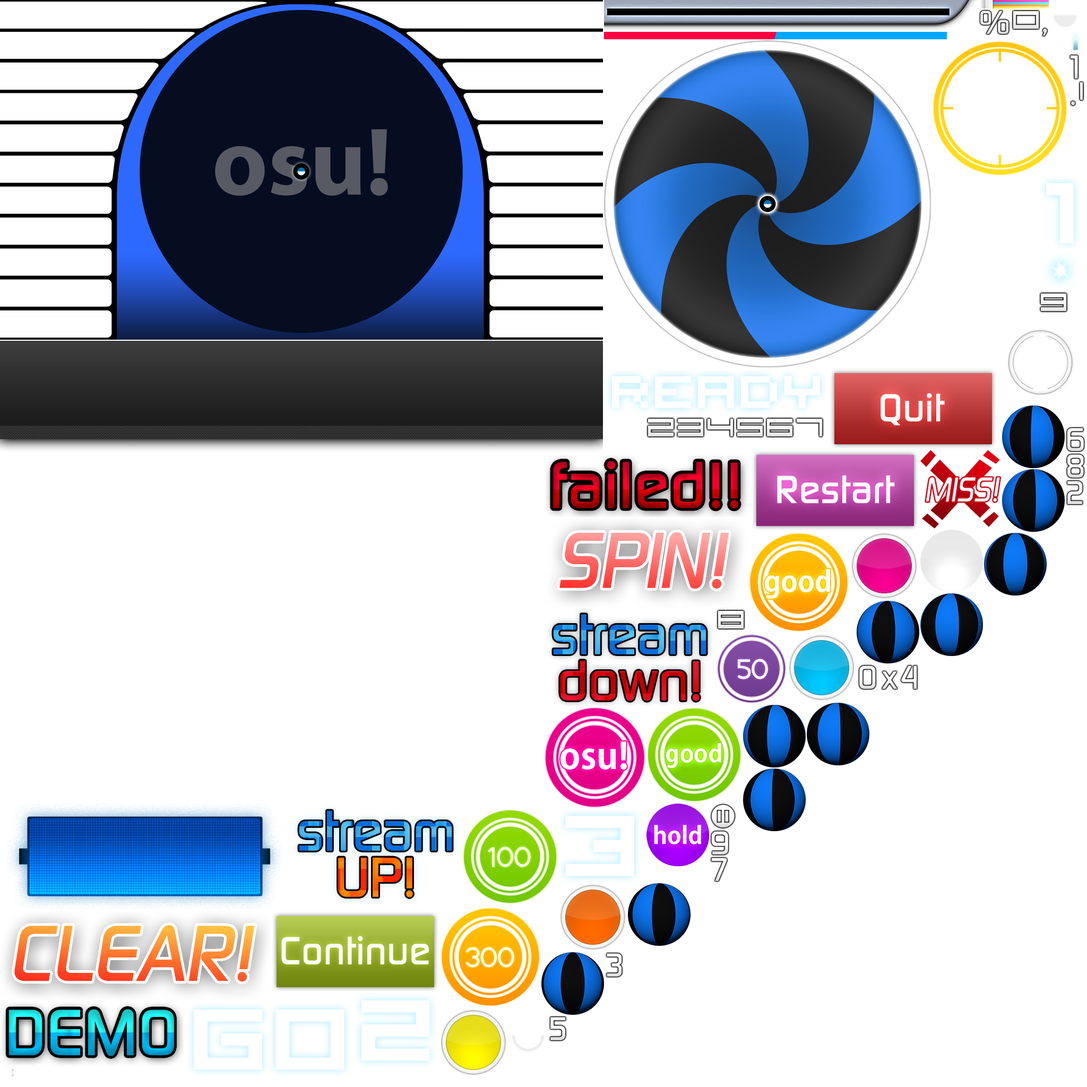
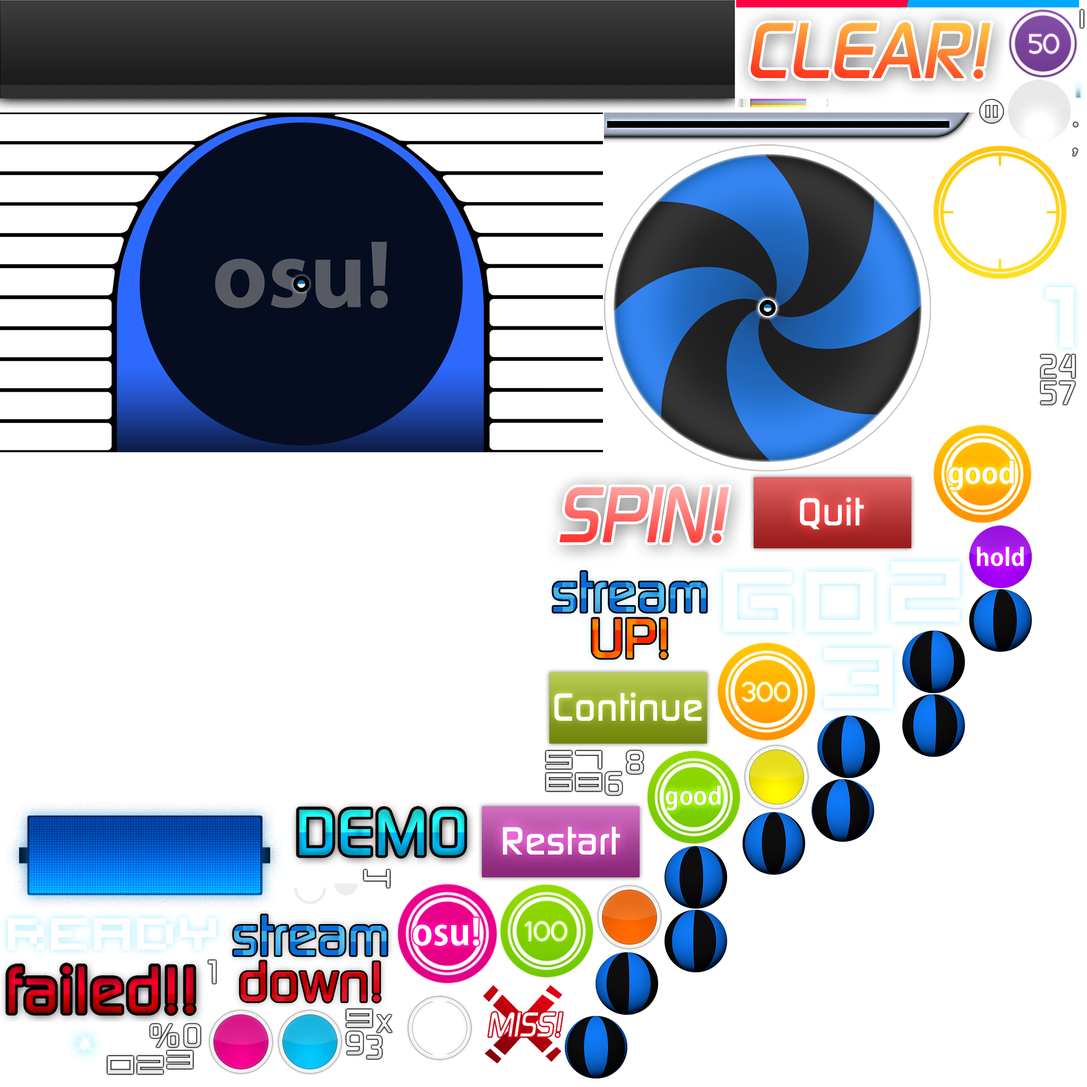
Update texture atlases

diff --git a/osu!stream/Graphics/TextureManager_Load.cs b/osu!stream/Graphics/TextureManager_Load.cs
@@ -4,153 +4,153 @@ namespace osum.Graphics.Skins
     {
         internal static void LoadSprites()
         {
-            textureLocations.Add(OsuTexture.spinner_background, new SpriteSheetTexture("hit", 0, 0, 1136, 640));
-            textureLocations.Add(OsuTexture.play_menu_background, new SpriteSheetTexture("hit", 0, 642, 1136, 212));
-            textureLocations.Add(OsuTexture.cleared, new SpriteSheetTexture("hit", 0, 856, 1024, 654));
-            textureLocations.Add(OsuTexture.scorebar_background, new SpriteSheetTexture("hit", 1138, 0, 704, 58));
-            textureLocations.Add(OsuTexture.scorebar_colour, new SpriteSheetTexture("hit", 1138, 60, 646, 14));
-            textureLocations.Add(OsuTexture.spinner_circle, new SpriteSheetTexture("hit", 1138, 76, 616, 616));
-            textureLocations.Add(OsuTexture.countdown_background, new SpriteSheetTexture("hit", 0, 1512, 545, 203));
-            textureLocations.Add(OsuTexture.spinner_clear, new SpriteSheetTexture("hit", 0, 1717, 510, 168));
-            textureLocations.Add(OsuTexture.countdown_ready, new SpriteSheetTexture("hit", 1138, 694, 422, 90));
-            textureLocations.Add(OsuTexture.failed, new SpriteSheetTexture("hit", 1026, 856, 388, 118));
-            textureLocations.Add(OsuTexture.spinner_spin, new SpriteSheetTexture("hit", 1026, 976, 382, 170));
-            textureLocations.Add(OsuTexture.demo, new SpriteSheetTexture("hit", 0, 1887, 350, 124));
-            textureLocations.Add(OsuTexture.stream_changing_up, new SpriteSheetTexture("hit", 547, 1512, 322, 194));
-            textureLocations.Add(OsuTexture.stream_changing_down, new SpriteSheetTexture("hit", 1026, 1148, 322, 182));
-            textureLocations.Add(OsuTexture.play_menu_continue, new SpriteSheetTexture("hit", 512, 1717, 316, 152));
-            textureLocations.Add(OsuTexture.play_menu_quit, new SpriteSheetTexture("hit", 1562, 694, 316, 152));
-            textureLocations.Add(OsuTexture.play_menu_restart, new SpriteSheetTexture("hit", 1416, 848, 316, 152));
-            textureLocations.Add(OsuTexture.countdown_go, new SpriteSheetTexture("hit", 352, 1887, 314, 144));
-            textureLocations.Add(OsuTexture.sliderfollowcircle, new SpriteSheetTexture("hit", 1756, 76, 256, 256));
-            textureLocations.Add(OsuTexture.stream_changing_arrow, new SpriteSheetTexture("hit", 1756, 334, 200, 266));
-            textureLocations.Add(OsuTexture.hit300g, new SpriteSheetTexture("hit", 1026, 1332, 190, 190));
-            textureLocations.Add(OsuTexture.hit300k, new SpriteSheetTexture("hit", 1410, 1002, 190, 190));
-            textureLocations.Add(OsuTexture.hit300, new SpriteSheetTexture("hit", 830, 1708, 188, 190));
-            textureLocations.Add(OsuTexture.hit100, new SpriteSheetTexture("hit", 871, 1524, 180, 180));
-            textureLocations.Add(OsuTexture.hit100k, new SpriteSheetTexture("hit", 1218, 1332, 180, 180));
-            textureLocations.Add(OsuTexture.holdoverlay, new SpriteSheetTexture("hit", 1880, 602, 160, 160));
-            textureLocations.Add(OsuTexture.countdown_2, new SpriteSheetTexture("hit", 668, 1871, 158, 142));
-            textureLocations.Add(OsuTexture.countdown_3, new SpriteSheetTexture("hit", 1053, 1524, 158, 138));
-            textureLocations.Add(OsuTexture.hit0, new SpriteSheetTexture("hit", 1734, 848, 152, 148));
-            textureLocations.Add(OsuTexture.hit50, new SpriteSheetTexture("hit", 1350, 1194, 132, 132));
-            textureLocations.Add(OsuTexture.tracks, new SpriteSheetTexture("hit", 1844, 0, 132, 16));
-            textureLocations.Add(OsuTexture.hitcircle0, new SpriteSheetTexture("hit", 1602, 1002, 128, 128));
-            textureLocations.Add(OsuTexture.hitcircle1, new SpriteSheetTexture("hit", 1484, 1194, 128, 128));
-            textureLocations.Add(OsuTexture.hitcircle2, new SpriteSheetTexture("hit", 1053, 1664, 128, 128));
-            textureLocations.Add(OsuTexture.hitcircle3, new SpriteSheetTexture("hit", 828, 1900, 128, 128));
-            textureLocations.Add(OsuTexture.holdactive, new SpriteSheetTexture("hit", 1734, 998, 118, 118));
-            textureLocations.Add(OsuTexture.holdinactive, new SpriteSheetTexture("hit", 1218, 1514, 118, 118));
-            textureLocations.Add(OsuTexture.sliderb_0, new SpriteSheetTexture("hit", 1400, 1328, 118, 118));
-            textureLocations.Add(OsuTexture.sliderb_1, new SpriteSheetTexture("hit", 1888, 764, 118, 118));
-            textureLocations.Add(OsuTexture.sliderb_2, new SpriteSheetTexture("hit", 1888, 884, 118, 118));
-            textureLocations.Add(OsuTexture.sliderb_3, new SpriteSheetTexture("hit", 1614, 1132, 118, 118));
-            textureLocations.Add(OsuTexture.sliderb_4, new SpriteSheetTexture("hit", 1020, 1794, 118, 118));
-            textureLocations.Add(OsuTexture.sliderb_5, new SpriteSheetTexture("hit", 1183, 1664, 118, 118));
-            textureLocations.Add(OsuTexture.sliderb_6, new SpriteSheetTexture("hit", 1400, 1448, 118, 118));
-            textureLocations.Add(OsuTexture.sliderb_7, new SpriteSheetTexture("hit", 1520, 1324, 118, 118));
-            textureLocations.Add(OsuTexture.sliderb_8, new SpriteSheetTexture("hit", 1734, 1118, 118, 118));
-            textureLocations.Add(OsuTexture.sliderb_9, new SpriteSheetTexture("hit", 1854, 1004, 118, 118));
-            textureLocations.Add(OsuTexture.sliderballoverlay, new SpriteSheetTexture("hit", 1756, 602, 118, 74));
-            textureLocations.Add(OsuTexture.countdown_1, new SpriteSheetTexture("hit", 1958, 334, 86, 134));
-            textureLocations.Add(OsuTexture.scorebar_marker_hit, new SpriteSheetTexture("hit", 1958, 470, 78, 78));
-            textureLocations.Add(OsuTexture.sliderarrow, new SpriteSheetTexture("hit", 1138, 786, 78, 58));
-            textureLocations.Add(OsuTexture.finger_outer, new SpriteSheetTexture("hit", 958, 1914, 74, 74));
-            textureLocations.Add(OsuTexture.score_percent, new SpriteSheetTexture("hit", 1844, 18, 60, 48));
-            textureLocations.Add(OsuTexture.finger_inner, new SpriteSheetTexture("hit", 1978, 0, 58, 58));
-            textureLocations.Add(OsuTexture.default_0, new SpriteSheetTexture("hit", 1906, 18, 54, 40));
-            textureLocations.Add(OsuTexture.default_2, new SpriteSheetTexture("hit", 1218, 786, 54, 40));
-            textureLocations.Add(OsuTexture.default_3, new SpriteSheetTexture("hit", 1274, 786, 54, 40));
-            textureLocations.Add(OsuTexture.default_4, new SpriteSheetTexture("hit", 1330, 786, 54, 40));
-            textureLocations.Add(OsuTexture.default_5, new SpriteSheetTexture("hit", 1386, 786, 54, 40));
-            textureLocations.Add(OsuTexture.default_6, new SpriteSheetTexture("hit", 1442, 786, 54, 40));
-            textureLocations.Add(OsuTexture.default_7, new SpriteSheetTexture("hit", 1498, 786, 54, 40));
-            textureLocations.Add(OsuTexture.default_8, new SpriteSheetTexture("hit", 1350, 1148, 54, 40));
-            textureLocations.Add(OsuTexture.default_9, new SpriteSheetTexture("hit", 1958, 550, 54, 40));
-            textureLocations.Add(OsuTexture.pausebutton, new SpriteSheetTexture("hit", 1338, 1514, 48, 48));
-            textureLocations.Add(OsuTexture.score_0, new SpriteSheetTexture("hit", 1614, 1252, 42, 48));
-            textureLocations.Add(OsuTexture.mouse_burst, new SpriteSheetTexture("hit", 2008, 764, 38, 38));
-            textureLocations.Add(OsuTexture.score_6, new SpriteSheetTexture("hit", 2008, 804, 36, 48));
-            textureLocations.Add(OsuTexture.score_8, new SpriteSheetTexture("hit", 2008, 854, 36, 48));
-            textureLocations.Add(OsuTexture.score_9, new SpriteSheetTexture("hit", 1338, 1564, 36, 48));
-            textureLocations.Add(OsuTexture.score_x, new SpriteSheetTexture("hit", 1658, 1252, 36, 48));
-            textureLocations.Add(OsuTexture.score_2, new SpriteSheetTexture("hit", 2008, 904, 34, 48));
-            textureLocations.Add(OsuTexture.score_3, new SpriteSheetTexture("hit", 1140, 1794, 34, 48));
-            textureLocations.Add(OsuTexture.score_4, new SpriteSheetTexture("hit", 1696, 1252, 34, 48));
-            textureLocations.Add(OsuTexture.score_5, new SpriteSheetTexture("hit", 1034, 1914, 34, 48));
-            textureLocations.Add(OsuTexture.score_7, new SpriteSheetTexture("hit", 1338, 1614, 34, 48));
-            textureLocations.Add(OsuTexture.scorebar_marker, new SpriteSheetTexture("hit", 2014, 60, 24, 40));
-            textureLocations.Add(OsuTexture.score_1, new SpriteSheetTexture("hit", 2014, 102, 20, 48));
-            textureLocations.Add(OsuTexture.sliderscorepoint, new SpriteSheetTexture("hit", 0, 2013, 20, 18));
-            textureLocations.Add(OsuTexture.score_dot, new SpriteSheetTexture("hit", 2014, 152, 16, 50));
-            textureLocations.Add(OsuTexture.score_comma, new SpriteSheetTexture("hit", 1962, 18, 14, 52));
-            textureLocations.Add(OsuTexture.default_1, new SpriteSheetTexture("hit", 2032, 152, 12, 40));
-            textureLocations.Add(OsuTexture.followpoint, new SpriteSheetTexture("hit", 1786, 60, 12, 12));
-            textureLocations.Add(OsuTexture.connectionline, new SpriteSheetTexture("hit", 22, 2013, 4, 16));
+            textureLocations.Add(OsuTexture.play_menu_background, new SpriteSheetTexture("hit", 0, 0, 1385, 210));
+            textureLocations.Add(OsuTexture.spinner_background, new SpriteSheetTexture("hit", 0, 212, 1136, 640));
+            textureLocations.Add(OsuTexture.cleared, new SpriteSheetTexture("hit", 0, 854, 1024, 654));
+            textureLocations.Add(OsuTexture.scorebar_background, new SpriteSheetTexture("hit", 1138, 212, 704, 58));
+            textureLocations.Add(OsuTexture.scorebar_colour, new SpriteSheetTexture("hit", 1387, 0, 646, 14));
+            textureLocations.Add(OsuTexture.spinner_circle, new SpriteSheetTexture("hit", 1138, 272, 616, 616));
+            textureLocations.Add(OsuTexture.countdown_background, new SpriteSheetTexture("hit", 0, 1510, 545, 203));
+            textureLocations.Add(OsuTexture.spinner_clear, new SpriteSheetTexture("hit", 1387, 16, 510, 168));
+            textureLocations.Add(OsuTexture.countdown_ready, new SpriteSheetTexture("hit", 0, 1715, 422, 90));
+            textureLocations.Add(OsuTexture.failed, new SpriteSheetTexture("hit", 0, 1807, 388, 118));
+            textureLocations.Add(OsuTexture.spinner_spin, new SpriteSheetTexture("hit", 1026, 890, 382, 170));
+            textureLocations.Add(OsuTexture.demo, new SpriteSheetTexture("hit", 547, 1510, 350, 124));
+            textureLocations.Add(OsuTexture.stream_changing_up, new SpriteSheetTexture("hit", 1026, 1062, 322, 194));
+            textureLocations.Add(OsuTexture.stream_changing_down, new SpriteSheetTexture("hit", 424, 1715, 322, 182));
+            textureLocations.Add(OsuTexture.play_menu_continue, new SpriteSheetTexture("hit", 1026, 1258, 316, 152));
+            textureLocations.Add(OsuTexture.play_menu_quit, new SpriteSheetTexture("hit", 1410, 890, 316, 152));
+            textureLocations.Add(OsuTexture.play_menu_restart, new SpriteSheetTexture("hit", 899, 1510, 316, 152));
+            textureLocations.Add(OsuTexture.countdown_go, new SpriteSheetTexture("hit", 1350, 1062, 314, 144));
+            textureLocations.Add(OsuTexture.sliderfollowcircle, new SpriteSheetTexture("hit", 1756, 272, 256, 256));
+            textureLocations.Add(OsuTexture.stream_changing_arrow, new SpriteSheetTexture("hit", 1756, 530, 200, 266));
+            textureLocations.Add(OsuTexture.hit300g, new SpriteSheetTexture("hit", 748, 1664, 190, 190));
+            textureLocations.Add(OsuTexture.hit300k, new SpriteSheetTexture("hit", 1756, 798, 190, 190));
+            textureLocations.Add(OsuTexture.hit300, new SpriteSheetTexture("hit", 1350, 1208, 188, 190));
+            textureLocations.Add(OsuTexture.hit100, new SpriteSheetTexture("hit", 940, 1664, 180, 180));
+            textureLocations.Add(OsuTexture.hit100k, new SpriteSheetTexture("hit", 1217, 1412, 180, 180));
+            textureLocations.Add(OsuTexture.holdoverlay, new SpriteSheetTexture("hit", 748, 1856, 160, 160));
+            textureLocations.Add(OsuTexture.countdown_2, new SpriteSheetTexture("hit", 1666, 1044, 158, 142));
+            textureLocations.Add(OsuTexture.countdown_3, new SpriteSheetTexture("hit", 1540, 1208, 158, 138));
+            textureLocations.Add(OsuTexture.hit0, new SpriteSheetTexture("hit", 910, 1856, 152, 148));
+            textureLocations.Add(OsuTexture.hit50, new SpriteSheetTexture("hit", 1899, 16, 132, 132));
+            textureLocations.Add(OsuTexture.tracks, new SpriteSheetTexture("hit", 1387, 186, 132, 16));
+            textureLocations.Add(OsuTexture.hitcircle0, new SpriteSheetTexture("hit", 390, 1899, 128, 128));
+            textureLocations.Add(OsuTexture.hitcircle1, new SpriteSheetTexture("hit", 520, 1899, 128, 128));
+            textureLocations.Add(OsuTexture.hitcircle2, new SpriteSheetTexture("hit", 1122, 1664, 128, 128));
+            textureLocations.Add(OsuTexture.hitcircle3, new SpriteSheetTexture("hit", 1399, 1400, 128, 128));
+            textureLocations.Add(OsuTexture.holdactive, new SpriteSheetTexture("hit", 1899, 150, 118, 118));
+            textureLocations.Add(OsuTexture.holdinactive, new SpriteSheetTexture("hit", 1826, 990, 118, 118));
+            textureLocations.Add(OsuTexture.sliderb_0, new SpriteSheetTexture("hit", 1540, 1348, 118, 118));
+            textureLocations.Add(OsuTexture.sliderb_1, new SpriteSheetTexture("hit", 1700, 1188, 118, 118));
+            textureLocations.Add(OsuTexture.sliderb_2, new SpriteSheetTexture("hit", 1122, 1794, 118, 118));
+            textureLocations.Add(OsuTexture.sliderb_3, new SpriteSheetTexture("hit", 1252, 1594, 118, 118));
+            textureLocations.Add(OsuTexture.sliderb_4, new SpriteSheetTexture("hit", 1399, 1530, 118, 118));
+            textureLocations.Add(OsuTexture.sliderb_5, new SpriteSheetTexture("hit", 1826, 1110, 118, 118));
+            textureLocations.Add(OsuTexture.sliderb_6, new SpriteSheetTexture("hit", 1252, 1714, 118, 118));
+            textureLocations.Add(OsuTexture.sliderb_7, new SpriteSheetTexture("hit", 1700, 1308, 118, 118));
+            textureLocations.Add(OsuTexture.sliderb_8, new SpriteSheetTexture("hit", 1529, 1468, 118, 118));
+            textureLocations.Add(OsuTexture.sliderb_9, new SpriteSheetTexture("hit", 1064, 1914, 118, 118));
+            textureLocations.Add(OsuTexture.sliderballoverlay, new SpriteSheetTexture("hit", 0, 1927, 118, 74));
+            textureLocations.Add(OsuTexture.countdown_1, new SpriteSheetTexture("hit", 1958, 530, 86, 134));
+            textureLocations.Add(OsuTexture.scorebar_marker_hit, new SpriteSheetTexture("hit", 120, 1927, 78, 78));
+            textureLocations.Add(OsuTexture.sliderarrow, new SpriteSheetTexture("hit", 200, 1927, 78, 58));
+            textureLocations.Add(OsuTexture.finger_outer, new SpriteSheetTexture("hit", 547, 1636, 74, 74));
+            textureLocations.Add(OsuTexture.score_percent, new SpriteSheetTexture("hit", 280, 1927, 60, 48));
+            textureLocations.Add(OsuTexture.finger_inner, new SpriteSheetTexture("hit", 623, 1636, 58, 58));
+            textureLocations.Add(OsuTexture.default_0, new SpriteSheetTexture("hit", 200, 1987, 54, 40));
+            textureLocations.Add(OsuTexture.default_2, new SpriteSheetTexture("hit", 256, 1987, 54, 40));
+            textureLocations.Add(OsuTexture.default_3, new SpriteSheetTexture("hit", 312, 1977, 54, 40));
+            textureLocations.Add(OsuTexture.default_4, new SpriteSheetTexture("hit", 683, 1636, 54, 40));
+            textureLocations.Add(OsuTexture.default_5, new SpriteSheetTexture("hit", 1026, 1412, 54, 40));
+            textureLocations.Add(OsuTexture.default_6, new SpriteSheetTexture("hit", 1026, 1454, 54, 40));
+            textureLocations.Add(OsuTexture.default_7, new SpriteSheetTexture("hit", 1082, 1412, 54, 40));
+            textureLocations.Add(OsuTexture.default_8, new SpriteSheetTexture("hit", 1082, 1454, 54, 40));
+            textureLocations.Add(OsuTexture.default_9, new SpriteSheetTexture("hit", 650, 1899, 54, 40));
+            textureLocations.Add(OsuTexture.pausebutton, new SpriteSheetTexture("hit", 1844, 186, 48, 48));
+            textureLocations.Add(OsuTexture.score_0, new SpriteSheetTexture("hit", 342, 1927, 42, 48));
+            textureLocations.Add(OsuTexture.mouse_burst, new SpriteSheetTexture("hit", 1138, 1412, 38, 38));
+            textureLocations.Add(OsuTexture.score_6, new SpriteSheetTexture("hit", 1138, 1452, 36, 48));
+            textureLocations.Add(OsuTexture.score_8, new SpriteSheetTexture("hit", 1178, 1412, 36, 48));
+            textureLocations.Add(OsuTexture.score_9, new SpriteSheetTexture("hit", 650, 1941, 36, 48));
+            textureLocations.Add(OsuTexture.score_x, new SpriteSheetTexture("hit", 706, 1899, 36, 48));
+            textureLocations.Add(OsuTexture.score_2, new SpriteSheetTexture("hit", 1958, 666, 34, 48));
+            textureLocations.Add(OsuTexture.score_3, new SpriteSheetTexture("hit", 688, 1949, 34, 48));
+            textureLocations.Add(OsuTexture.score_4, new SpriteSheetTexture("hit", 1994, 666, 34, 48));
+            textureLocations.Add(OsuTexture.score_5, new SpriteSheetTexture("hit", 1958, 716, 34, 48));
+            textureLocations.Add(OsuTexture.score_7, new SpriteSheetTexture("hit", 1994, 716, 34, 48));
+            textureLocations.Add(OsuTexture.scorebar_marker, new SpriteSheetTexture("hit", 2019, 150, 24, 40));
+            textureLocations.Add(OsuTexture.score_1, new SpriteSheetTexture("hit", 390, 1807, 20, 48));
+            textureLocations.Add(OsuTexture.sliderscorepoint, new SpriteSheetTexture("hit", 1521, 186, 20, 18));
+            textureLocations.Add(OsuTexture.score_dot, new SpriteSheetTexture("hit", 2019, 192, 16, 50));
+            textureLocations.Add(OsuTexture.score_comma, new SpriteSheetTexture("hit", 2019, 244, 14, 52));
+            textureLocations.Add(OsuTexture.default_1, new SpriteSheetTexture("hit", 2033, 16, 12, 40));
+            textureLocations.Add(OsuTexture.followpoint, new SpriteSheetTexture("hit", 1543, 186, 12, 12));
+            textureLocations.Add(OsuTexture.connectionline, new SpriteSheetTexture("hit", 1557, 186, 4, 16));
             textureLocations.Add(OsuTexture.menu_headphones, new SpriteSheetTexture("intro", 0, 0, 408, 494));
-            textureLocations.Add(OsuTexture.menu_stream, new SpriteSheetTexture("menu", 0, 0, 1178, 140));
-            textureLocations.Add(OsuTexture.songselect_panel, new SpriteSheetTexture("menu", 0, 142, 1136, 96));
-            textureLocations.Add(OsuTexture.songselect_panel_selected, new SpriteSheetTexture("menu", 0, 240, 1136, 96));
-            textureLocations.Add(OsuTexture.songselect_footer, new SpriteSheetTexture("menu", 0, 338, 1136, 93));
-            textureLocations.Add(OsuTexture.options_header, new SpriteSheetTexture("menu", 0, 433, 1136, 86));
-            textureLocations.Add(OsuTexture.songselect_header, new SpriteSheetTexture("menu", 0, 521, 1136, 86));
-            textureLocations.Add(OsuTexture.store_header, new SpriteSheetTexture("menu", 0, 609, 1136, 86));
-            textureLocations.Add(OsuTexture.songselect_background, new SpriteSheetTexture("menu", 0, 697, 1024, 768));
-            textureLocations.Add(OsuTexture.menu_gloss, new SpriteSheetTexture("menu", 1180, 0, 628, 628));
+            textureLocations.Add(OsuTexture.songselect_background, new SpriteSheetTexture("menu", 0, 0, 1400, 768));
+            textureLocations.Add(OsuTexture.songselect_panel, new SpriteSheetTexture("menu", 0, 770, 1385, 96));
+            textureLocations.Add(OsuTexture.songselect_panel_selected, new SpriteSheetTexture("menu", 0, 868, 1385, 96));
+            textureLocations.Add(OsuTexture.songselect_footer, new SpriteSheetTexture("menu", 0, 966, 1385, 93));
+            textureLocations.Add(OsuTexture.options_header, new SpriteSheetTexture("menu", 0, 1061, 1385, 86));
+            textureLocations.Add(OsuTexture.songselect_header, new SpriteSheetTexture("menu", 0, 1149, 1385, 86));
+            textureLocations.Add(OsuTexture.store_header, new SpriteSheetTexture("menu", 0, 1237, 1385, 86));
+            textureLocations.Add(OsuTexture.menu_stream, new SpriteSheetTexture("menu", 0, 1325, 1178, 140));
+            textureLocations.Add(OsuTexture.menu_gloss, new SpriteSheetTexture("menu", 1402, 0, 628, 628));
             textureLocations.Add(OsuTexture.sliderbar, new SpriteSheetTexture("menu", 0, 1467, 526, 64));
-            textureLocations.Add(OsuTexture.menu_osu, new SpriteSheetTexture("menu", 1026, 697, 522, 522));
+            textureLocations.Add(OsuTexture.menu_osu, new SpriteSheetTexture("menu", 528, 1467, 522, 522));
             textureLocations.Add(OsuTexture.backbutton, new SpriteSheetTexture("menu", 0, 1533, 458, 292));
             textureLocations.Add(OsuTexture.menu_options, new SpriteSheetTexture("menu", 0, 1827, 418, 124));
-            textureLocations.Add(OsuTexture.songselect_mode_easy, new SpriteSheetTexture("menu", 460, 1533, 402, 304));
-            textureLocations.Add(OsuTexture.songselect_mode_stream, new SpriteSheetTexture("menu", 1026, 1221, 402, 266));
-            textureLocations.Add(OsuTexture.songselect_mode_expert, new SpriteSheetTexture("menu", 1550, 630, 402, 258));
-            textureLocations.Add(OsuTexture.menu_tutorial, new SpriteSheetTexture("menu", 420, 1839, 372, 170));
-            textureLocations.Add(OsuTexture.menu_logo, new SpriteSheetTexture("menu", 864, 1489, 312, 206));
-            textureLocations.Add(OsuTexture.menu_store, new SpriteSheetTexture("menu", 1550, 890, 292, 116));
-            textureLocations.Add(OsuTexture.news_button, new SpriteSheetTexture("menu", 1550, 1008, 264, 98));
-            textureLocations.Add(OsuTexture.difficulty_bar_bg, new SpriteSheetTexture("menu", 1138, 630, 252, 24));
-            textureLocations.Add(OsuTexture.difficulty_bar_colour, new SpriteSheetTexture("menu", 1138, 656, 252, 24));
-            textureLocations.Add(OsuTexture.menu_circle, new SpriteSheetTexture("menu", 864, 1697, 248, 248));
-            textureLocations.Add(OsuTexture.menu_play, new SpriteSheetTexture("menu", 1430, 1221, 246, 120));
-            textureLocations.Add(OsuTexture.songselect_store_buy_background, new SpriteSheetTexture("menu", 1810, 0, 230, 88));
-            textureLocations.Add(OsuTexture.songselect_video, new SpriteSheetTexture("menu", 1810, 90, 180, 56));
-            textureLocations.Add(OsuTexture.songselect_songinfo, new SpriteSheetTexture("menu", 1810, 148, 152, 92));
-            textureLocations.Add(OsuTexture.songselect_thumb_dl, new SpriteSheetTexture("menu", 1810, 242, 128, 86));
-            textureLocations.Add(OsuTexture.songselect_thumb_restore, new SpriteSheetTexture("menu", 1810, 330, 128, 86));
-            textureLocations.Add(OsuTexture.new_notify, new SpriteSheetTexture("menu", 1940, 242, 104, 104));
-            textureLocations.Add(OsuTexture.backbutton_arrows1, new SpriteSheetTexture("menu", 1810, 418, 82, 96));
-            textureLocations.Add(OsuTexture.backbutton_arrows2, new SpriteSheetTexture("menu", 1940, 348, 82, 96));
-            textureLocations.Add(OsuTexture.rank_a_small, new SpriteSheetTexture("menu", 0, 1953, 60, 66));
-            textureLocations.Add(OsuTexture.rank_s_small, new SpriteSheetTexture("menu", 62, 1953, 60, 66));
-            textureLocations.Add(OsuTexture.news_light, new SpriteSheetTexture("menu", 528, 1467, 60, 34));
-            textureLocations.Add(OsuTexture.rank_x_small, new SpriteSheetTexture("menu", 124, 1953, 58, 68));
-            textureLocations.Add(OsuTexture.rank_b_small, new SpriteSheetTexture("menu", 1964, 148, 58, 66));
-            textureLocations.Add(OsuTexture.rank_d_small, new SpriteSheetTexture("menu", 184, 1953, 58, 66));
-            textureLocations.Add(OsuTexture.songselect_audio_pause, new SpriteSheetTexture("menu", 1392, 630, 56, 56));
-            textureLocations.Add(OsuTexture.songselect_audio_play, new SpriteSheetTexture("menu", 590, 1467, 56, 56));
-            textureLocations.Add(OsuTexture.songselect_audio_preview, new SpriteSheetTexture("menu", 1450, 630, 56, 56));
-            textureLocations.Add(OsuTexture.rank_c_small, new SpriteSheetTexture("menu", 244, 1953, 54, 66));
-            textureLocations.Add(OsuTexture.rank_x_tiny, new SpriteSheetTexture("menu", 648, 1467, 50, 60));
-            textureLocations.Add(OsuTexture.rank_a_tiny, new SpriteSheetTexture("menu", 1992, 90, 50, 56));
-            textureLocations.Add(OsuTexture.rank_s_tiny, new SpriteSheetTexture("menu", 700, 1467, 50, 56));
-            textureLocations.Add(OsuTexture.rank_d_tiny, new SpriteSheetTexture("menu", 752, 1467, 48, 58));
-            textureLocations.Add(OsuTexture.rank_b_tiny, new SpriteSheetTexture("menu", 300, 1953, 48, 56));
-            textureLocations.Add(OsuTexture.rank_c_tiny, new SpriteSheetTexture("menu", 802, 1467, 45, 58));
-            textureLocations.Add(OsuTexture.songselect_mode_arrow, new SpriteSheetTexture("menu", 1138, 142, 38, 44));
-            textureLocations.Add(OsuTexture.menu_item_background, new SpriteSheetTexture("menu", 1138, 188, 4, 400));
+            textureLocations.Add(OsuTexture.songselect_mode_easy, new SpriteSheetTexture("menu", 1402, 630, 402, 304));
+            textureLocations.Add(OsuTexture.songselect_mode_stream, new SpriteSheetTexture("menu", 1387, 936, 402, 266));
+            textureLocations.Add(OsuTexture.songselect_mode_expert, new SpriteSheetTexture("menu", 1180, 1325, 402, 258));
+            textureLocations.Add(OsuTexture.menu_tutorial, new SpriteSheetTexture("menu", 1052, 1585, 372, 170));
+            textureLocations.Add(OsuTexture.menu_logo, new SpriteSheetTexture("menu", 1052, 1757, 312, 206));
+            textureLocations.Add(OsuTexture.menu_store, new SpriteSheetTexture("menu", 1387, 1204, 292, 116));
+            textureLocations.Add(OsuTexture.news_button, new SpriteSheetTexture("menu", 1681, 1204, 264, 98));
+            textureLocations.Add(OsuTexture.difficulty_bar_bg, new SpriteSheetTexture("menu", 0, 1953, 252, 24));
+            textureLocations.Add(OsuTexture.difficulty_bar_colour, new SpriteSheetTexture("menu", 0, 1979, 252, 24));
+            textureLocations.Add(OsuTexture.menu_circle, new SpriteSheetTexture("menu", 1791, 936, 248, 248));
+            textureLocations.Add(OsuTexture.menu_play, new SpriteSheetTexture("menu", 1584, 1322, 246, 120));
+            textureLocations.Add(OsuTexture.songselect_store_buy_background, new SpriteSheetTexture("menu", 1806, 630, 230, 88));
+            textureLocations.Add(OsuTexture.songselect_video, new SpriteSheetTexture("menu", 254, 1953, 180, 56));
+            textureLocations.Add(OsuTexture.songselect_songinfo, new SpriteSheetTexture("menu", 1806, 720, 152, 92));
+            textureLocations.Add(OsuTexture.songselect_thumb_dl, new SpriteSheetTexture("menu", 1806, 814, 128, 86));
+            textureLocations.Add(OsuTexture.songselect_thumb_restore, new SpriteSheetTexture("menu", 1426, 1585, 128, 86));
+            textureLocations.Add(OsuTexture.new_notify, new SpriteSheetTexture("menu", 420, 1827, 104, 104));
+            textureLocations.Add(OsuTexture.backbutton_arrows1, new SpriteSheetTexture("menu", 1052, 1467, 82, 96));
+            textureLocations.Add(OsuTexture.backbutton_arrows2, new SpriteSheetTexture("menu", 1960, 720, 82, 96));
+            textureLocations.Add(OsuTexture.rank_a_small, new SpriteSheetTexture("menu", 460, 1533, 60, 66));
+            textureLocations.Add(OsuTexture.rank_s_small, new SpriteSheetTexture("menu", 460, 1601, 60, 66));
+            textureLocations.Add(OsuTexture.news_light, new SpriteSheetTexture("menu", 460, 1669, 60, 34));
+            textureLocations.Add(OsuTexture.rank_x_small, new SpriteSheetTexture("menu", 460, 1705, 58, 68));
+            textureLocations.Add(OsuTexture.rank_b_small, new SpriteSheetTexture("menu", 436, 1933, 58, 66));
+            textureLocations.Add(OsuTexture.rank_d_small, new SpriteSheetTexture("menu", 1936, 818, 58, 66));
+            textureLocations.Add(OsuTexture.songselect_audio_pause, new SpriteSheetTexture("menu", 1052, 1965, 56, 56));
+            textureLocations.Add(OsuTexture.songselect_audio_play, new SpriteSheetTexture("menu", 1584, 1444, 56, 56));
+            textureLocations.Add(OsuTexture.songselect_audio_preview, new SpriteSheetTexture("menu", 1110, 1965, 56, 56));
+            textureLocations.Add(OsuTexture.rank_c_small, new SpriteSheetTexture("menu", 1584, 1502, 54, 66));
+            textureLocations.Add(OsuTexture.rank_x_tiny, new SpriteSheetTexture("menu", 1996, 818, 50, 60));
+            textureLocations.Add(OsuTexture.rank_a_tiny, new SpriteSheetTexture("menu", 1642, 1444, 50, 56));
+            textureLocations.Add(OsuTexture.rank_s_tiny, new SpriteSheetTexture("menu", 1426, 1673, 50, 56));
+            textureLocations.Add(OsuTexture.rank_d_tiny, new SpriteSheetTexture("menu", 1366, 1757, 48, 58));
+            textureLocations.Add(OsuTexture.rank_b_tiny, new SpriteSheetTexture("menu", 1168, 1965, 48, 56));
+            textureLocations.Add(OsuTexture.rank_c_tiny, new SpriteSheetTexture("menu", 1694, 1444, 45, 58));
+            textureLocations.Add(OsuTexture.songselect_mode_arrow, new SpriteSheetTexture("menu", 460, 1775, 38, 44));
+            textureLocations.Add(OsuTexture.menu_item_background, new SpriteSheetTexture("menu", 2032, 0, 4, 400));
             textureLocations.Add(OsuTexture.notification_background, new SpriteSheetTexture("notification", 0, 0, 900, 514));
             textureLocations.Add(OsuTexture.notification_button_ok, new SpriteSheetTexture("notification", 0, 516, 500, 80));
             textureLocations.Add(OsuTexture.notification_button_no, new SpriteSheetTexture("notification", 0, 598, 360, 80));
             textureLocations.Add(OsuTexture.notification_button_yes, new SpriteSheetTexture("notification", 0, 680, 360, 80));
             textureLocations.Add(OsuTexture.notification_button_toggle, new SpriteSheetTexture("notification", 0, 762, 86, 80));
-            textureLocations.Add(OsuTexture.ranking_footer, new SpriteSheetTexture("ranking", 0, 0, 1136, 94));
+            textureLocations.Add(OsuTexture.ranking_footer, new SpriteSheetTexture("ranking", 0, 0, 1385, 94));
             textureLocations.Add(OsuTexture.ranking_background, new SpriteSheetTexture("ranking", 0, 96, 814, 528));
             textureLocations.Add(OsuTexture.rank_x, new SpriteSheetTexture("ranking", 816, 96, 324, 380));
-            textureLocations.Add(OsuTexture.rank_a, new SpriteSheetTexture("ranking", 1142, 0, 318, 360));
+            textureLocations.Add(OsuTexture.rank_a, new SpriteSheetTexture("ranking", 1142, 96, 318, 360));
             textureLocations.Add(OsuTexture.rank_s, new SpriteSheetTexture("ranking", 816, 478, 308, 360));
             textureLocations.Add(OsuTexture.rank_d, new SpriteSheetTexture("ranking", 1462, 0, 304, 352));
-            textureLocations.Add(OsuTexture.rank_b, new SpriteSheetTexture("ranking", 1142, 362, 300, 344));
-            textureLocations.Add(OsuTexture.rank_c, new SpriteSheetTexture("ranking", 1444, 362, 296, 358));
+            textureLocations.Add(OsuTexture.rank_b, new SpriteSheetTexture("ranking", 1142, 458, 300, 344));
+            textureLocations.Add(OsuTexture.rank_c, new SpriteSheetTexture("ranking", 1462, 354, 296, 358));
             textureLocations.Add(OsuTexture.personalbest, new SpriteSheetTexture("ranking", 0, 626, 206, 88));
         }
     }
